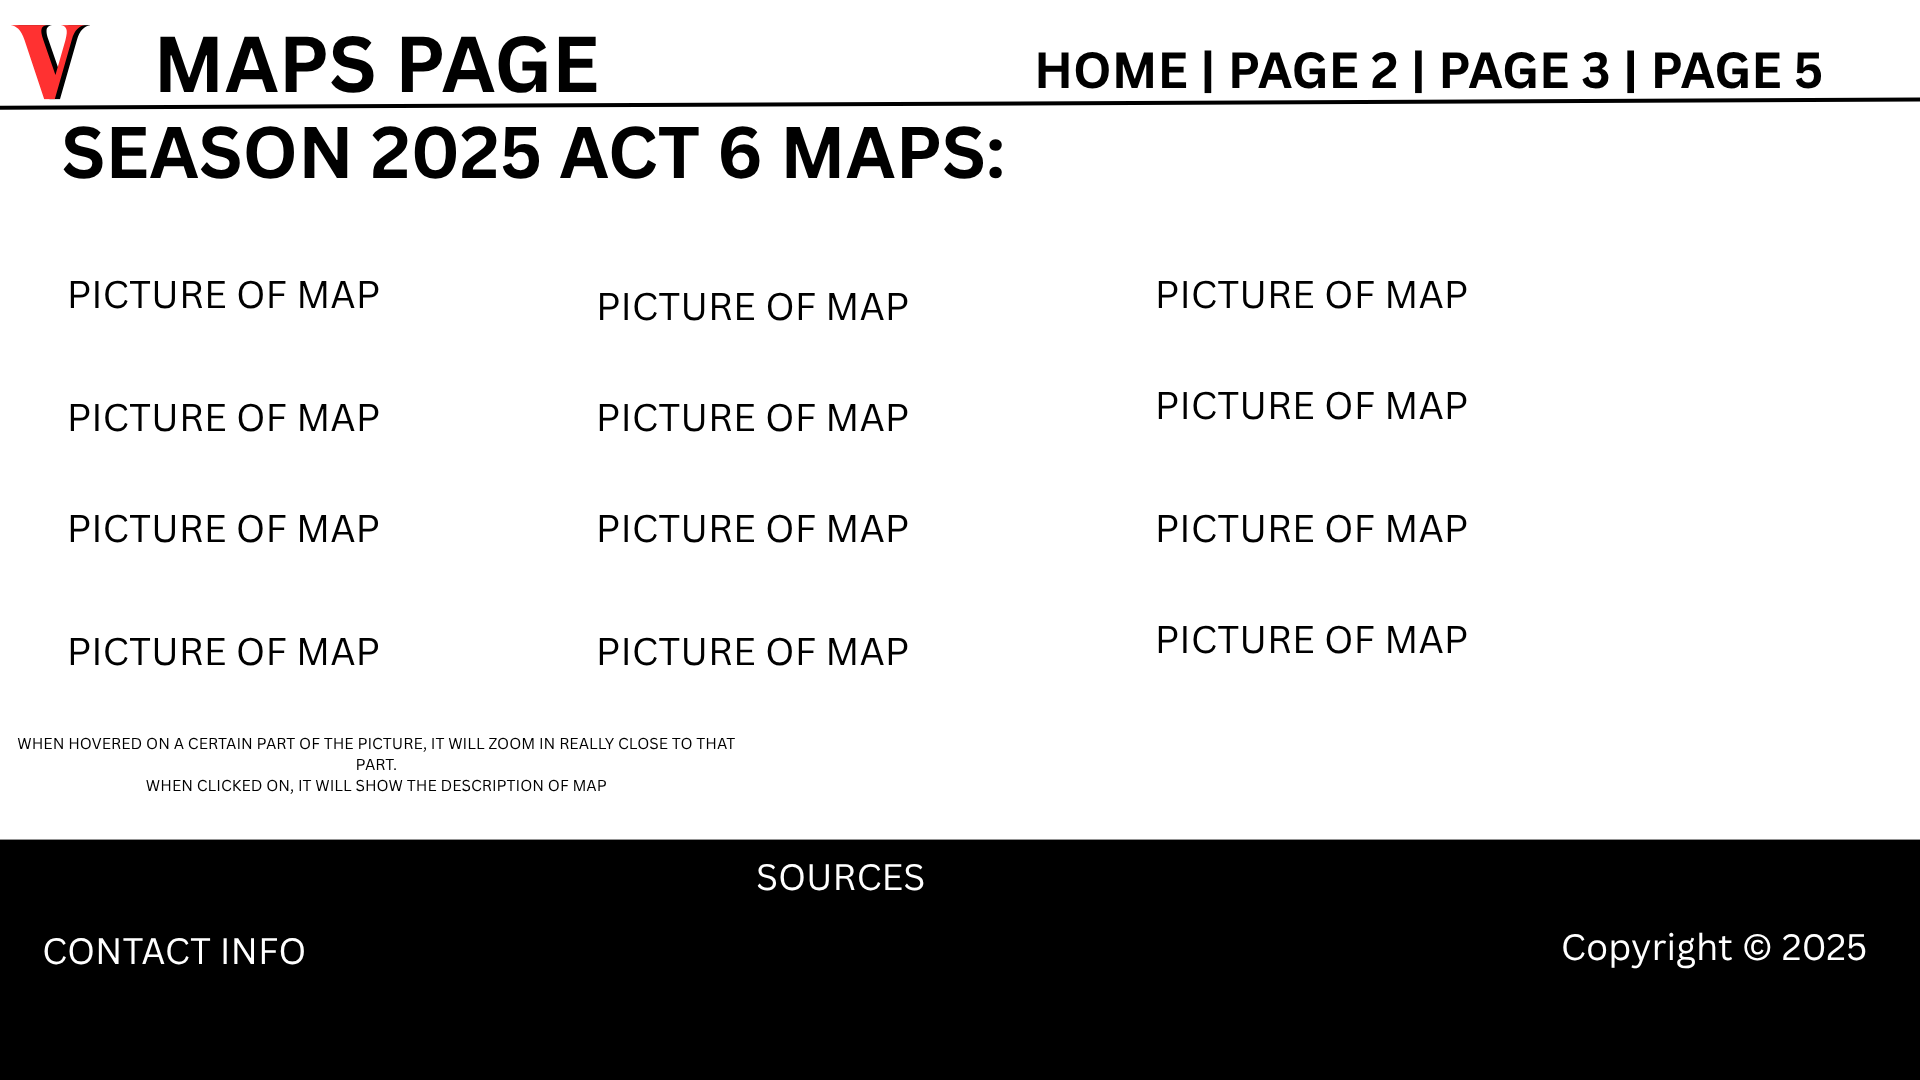
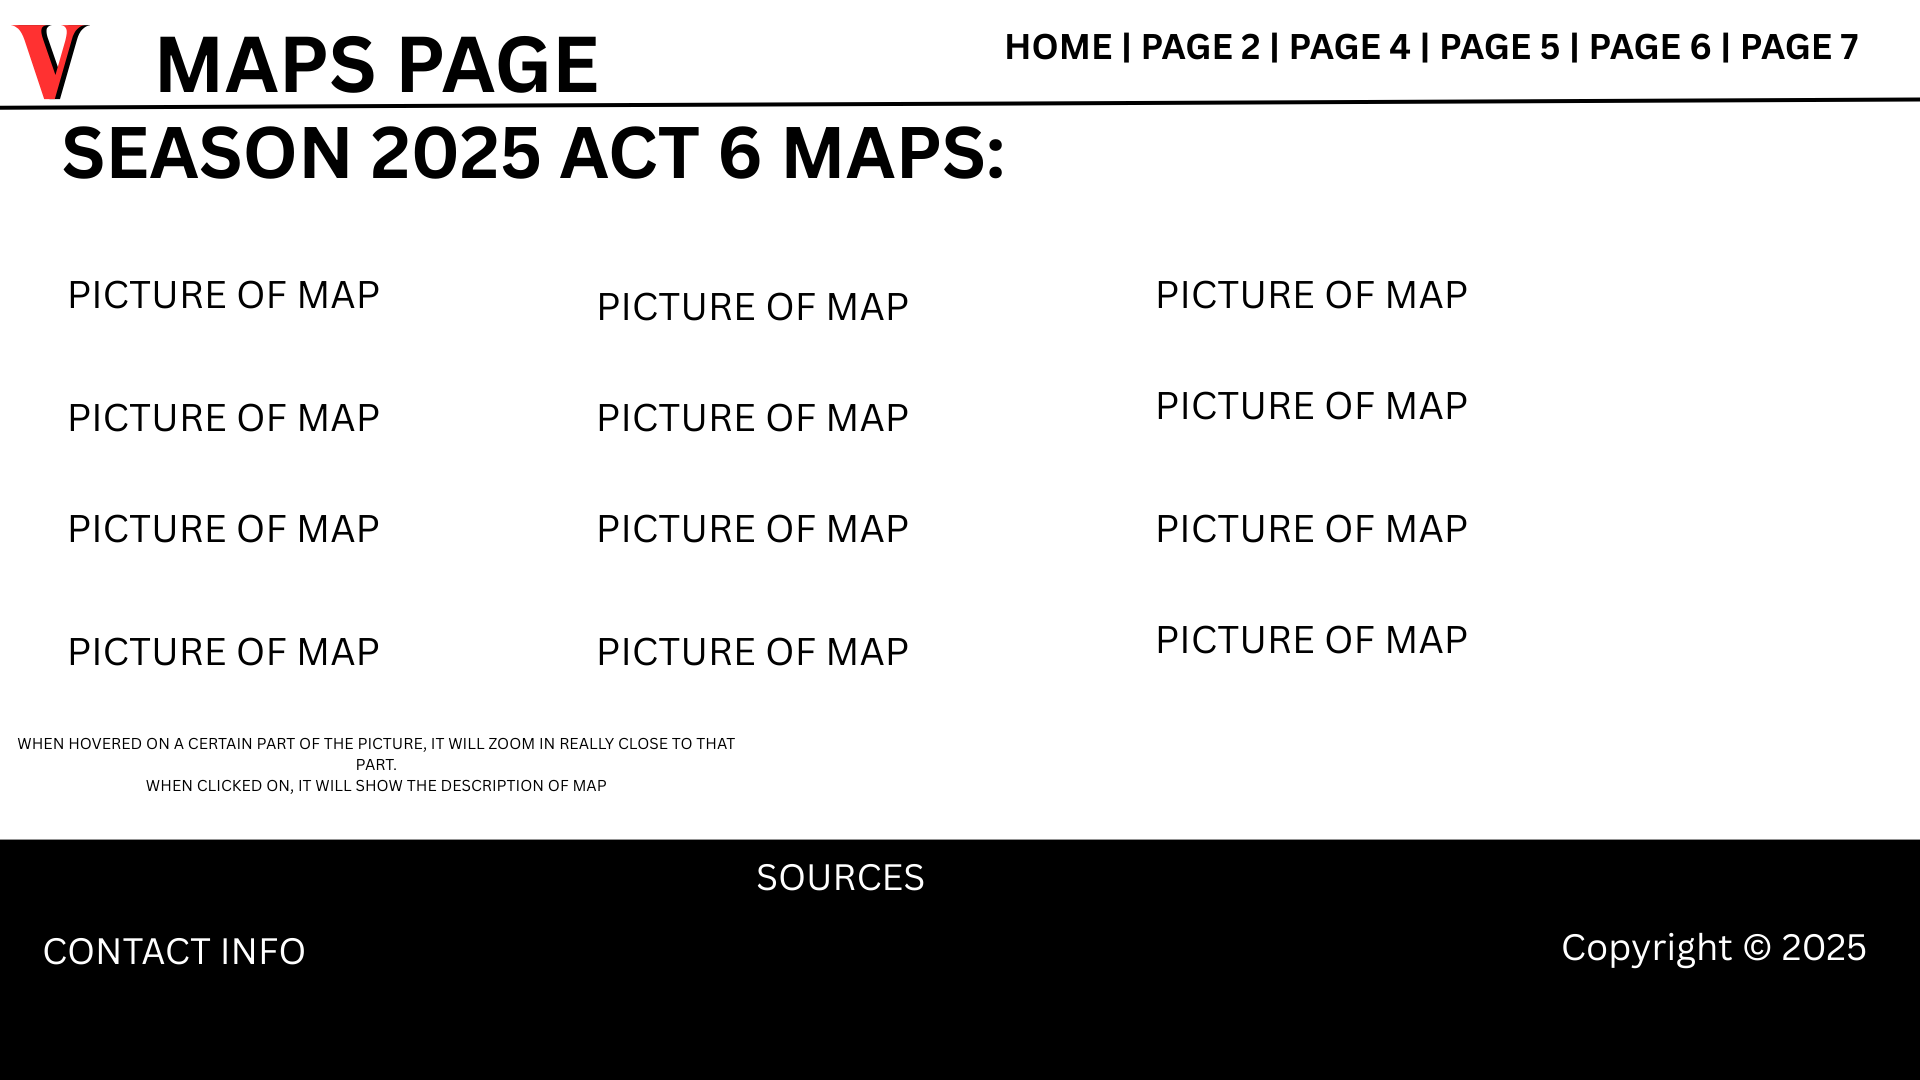
project proposal

Changed region(s): [[0.5312, 0.0306, 0.9688, 0.0917]]

diff --git a/readme.md b/readme.md
@@ -23,6 +23,21 @@ P3 (Maps) - Images and layout of the maps in Valorant arranged in rows and colum
 
 P4 (Sources) - Collection of all links and citations of all the assets and text used.
 
+P5 (Preferences)  - In this page, user will select their preffered Agent role, weapon type, and budget range, all in a box in the middle. HTML forms will be used here. buttons for Agent role, checkboxes for weapon type, dropdown or slider for budget range.
+
+P6 (Reccomended Weapons) - Shows reccomended weapons and the best ones to buy for the budget range. In a grid pattern from most expensive to least expensive.
+
+P7 (Reccomended Agents) - Shows reccomended Agents for the selected role, displaying image cards for agents in a grid.
+
+---
+
+
+<font size="4"> How HTML form will be used </font> \
+Page 5: To pick agent role, radio buttons will be used. Checkboxes for weapon type, and select element for budget range. 
+
+Data will be saved using "submit" form tag, a button that will call to a js script that will save the selected elements' values using localStorage. \
+Using localStorage.getItem, we can get the saved variables from the Preference page and their values.
+
 ---
 
 <font size="4"> How JS will be applied: </font> \
@@ -33,16 +48,22 @@ Page 3: Zoom-in feature when hovering over certain parts of the images of the ma
 All Pages: When scrolling past the content, footer will pop out, showing sources. 
 ---
 Homepage: \
-![alt](./assets/1.png)
+![alt](public/assets/1.png)
 
 First Page:\
-![alt](./assets/2.png)
+![alt](public/assets/2.png)
 
 Second Page:\
-![alt](./assets/3.png)
+![alt](public/assets/3.png)
 
 Third Page:\
-![alt](./assets/4.png)
+![alt](public/assets/4.png)
 
 Fourth Page:\
-![alt](./assets/5.png)
+![alt](public/assets/5.png)
+
+Fifth Page:\
+![alt](public/assets/6.png)
+
+Fifth Page:\
+![alt](public/assets/7.png)
